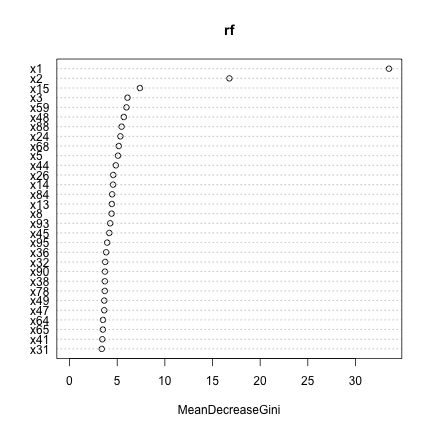
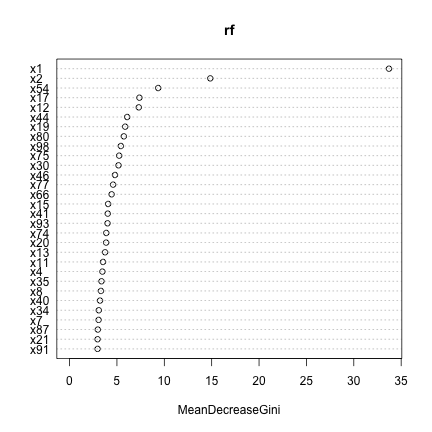
dr

diff --git a/_posts/2014-10-29-thoughts.md b/_posts/2014-10-29-thoughts.md
@@ -131,11 +131,11 @@ svm.res <- kable(table(pred = prediction, true = d$y[801:1000]),
 
 |id  |   0|   1|
 |:---|---:|---:|
-|0   |  84|  11|
-|1   |  14|  91|
+|0   |  87|   6|
+|1   |  17|  90|
 
 and our results are fine:
-|id  |   0|   1| |:---|---:|---:| |0   |  84|  11| |1   |  14|  91|
+|id  |   0|   1| |:---|---:|---:| |0   |  87|   6| |1   |  17|  90|
 
 
 Repeating this process with the principal component version of the data:
@@ -150,14 +150,14 @@ svm.PC.res <- kable(table(pred = prediction, true = d.PC$y[801:1000]),
 
 
 {% highlight text %}
-|id  |   0|    1|
-|:---|---:|----:|
-|0   |  98|  102|
-|1   |   0|    0|
+|id  |    0|   1|
+|:---|----:|---:|
+|0   |    0|   0|
+|1   |  104|  96|
 {% endhighlight %}
 
 
-|id  |   0|    1| |:---|---:|----:| |0   |  98|  102| |1   |   0|    0|
+|id  |    0|   1| |:---|----:|---:| |0   |    0|   0| |1   |  104|  96|
 
 
 ##Random forests
@@ -177,12 +177,12 @@ rf.res <- kable(table(pred = prediction, true = d$y[801:1000]),
 {% highlight text %}
 |id  |   0|   1|
 |:---|---:|---:|
-|0   |  76|  14|
-|1   |  22|  88|
+|0   |  77|  13|
+|1   |  27|  83|
 {% endhighlight %}
 
 
-|id  |   0|   1| |:---|---:|---:| |0   |  76|  14| |1   |  22|  88|
+|id  |   0|   1| |:---|---:|---:| |0   |  77|  13| |1   |  27|  83|
 
 
 
@@ -199,21 +199,21 @@ rf.res <- kable(table(pred = prediction, true = d$y[801:1000]),
 rf.PC <- randomForest(y ~ ., data = d.PC[1:800, ], 
     ntree = 1000, nodesize = 9, mtry = 10)
 prediction <- predict(rf.PC, d.PC[801:1000, ])
-rf.PC.res <- ktable(table(pred = prediction, true = d.PC$y[801:1000]), 
+rf.PC.res <- kable(table(pred = prediction, true = d.PC$y[801:1000]), 
     format = "markdown")
 {% endhighlight %}
 
 
 
 {% highlight text %}
-Error: could not find function "ktable"
+|id  |   0|   1|
+|:---|---:|---:|
+|0   |  32|  32|
+|1   |  72|  64|
 {% endhighlight %}
 
 the results are garbage:
-
-{% highlight text %}
-Error: object 'rf.PC.res' not found
-{% endhighlight %}
+|id  |   0|   1| |:---|---:|---:| |0   |  32|  32| |1   |  72|  64|
 
 and the importance plot is not about to help:
 
